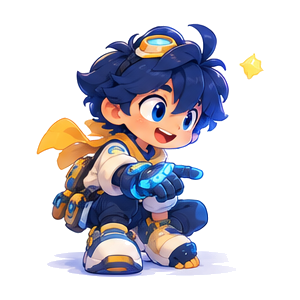
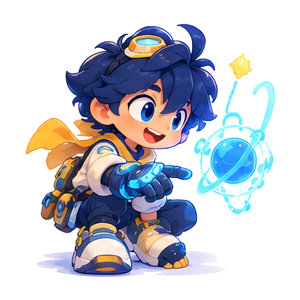
Keep Miko's hologram visible in the greeting pose

diff --git a/integration_test/living_crew_demo_test.dart b/integration_test/living_crew_demo_test.dart
@@ -42,6 +42,7 @@ void main() {
         }
         await tester.pumpWidget(
           MaterialApp(
+            debugShowCheckedModeBanner: false,
             theme: orbitTheme(theme),
             home: Scaffold(
               appBar: AppBar(title: const Text('Команда KVESMOS')),
@@ -63,6 +64,7 @@ void main() {
                       Text(switch (state) {
                         CharacterState.idle => 'Ожидание',
                         CharacterState.greeting => 'Приветствие',
+                        CharacterState.surprise => 'Удивление',
                         CharacterState.thinking => 'Размышление',
                         CharacterState.celebration => 'Радость',
                         _ => 'Поддержка',
@@ -75,7 +77,9 @@ void main() {
           ),
         );
         await capture('$hue-${id.replaceAll('_', '-')}-neutral');
-        motion.value = CharacterState.greeting;
+        motion.value = id == 'pixie'
+            ? CharacterState.surprise
+            : CharacterState.greeting;
         await tester.pump();
         await Future<void>.delayed(const Duration(milliseconds: 600));
         await capture('$hue-${id.replaceAll('_', '-')}-gesture');

diff --git a/tool/export_crew_sprites.py b/tool/export_crew_sprites.py
@@ -16,7 +16,7 @@ OUT = ROOT / "assets/kvesmos/crew_motion"
 CELLS = {
     "aster": [(665,211,760,310),(498,213,576,306),(410,212,494,308),(583,213,655,307),(330,211,411,307),(332,323,487,507)],
     "fox_scholar": [(604,220,675,321),(326,220,410,320),(246,221,326,320),(680,219,757,321),(411,220,500,320),(392,328,483,502)],
-    "miko": [(444,214,522,316),(607,212,680,316),(366,212,443,315),(524,213,605,316),(200,218,277,315),(150,353,272,504)],
+    "miko": [(444,214,522,316),(607,212,680,316),(366,212,443,315),(524,213,605,316),(200,218,277,315),(148,340,281,507)],
     "nox": [(423,237,499,341),(506,237,583,341),(252,234,331,341),(588,237,668,341),(337,237,417,341),(413,353,579,573)],
     "reyvo": [(478,212,538,309),(703,213,758,307),(546,213,614,310),(622,211,690,307),(414,212,474,308),(350,315,474,488)],
     "vespa": [(420,221,483,309),(699,221,762,308),(491,219,549,307),(557,220,619,308),(216,223,275,307),(320,329,482,500)],
